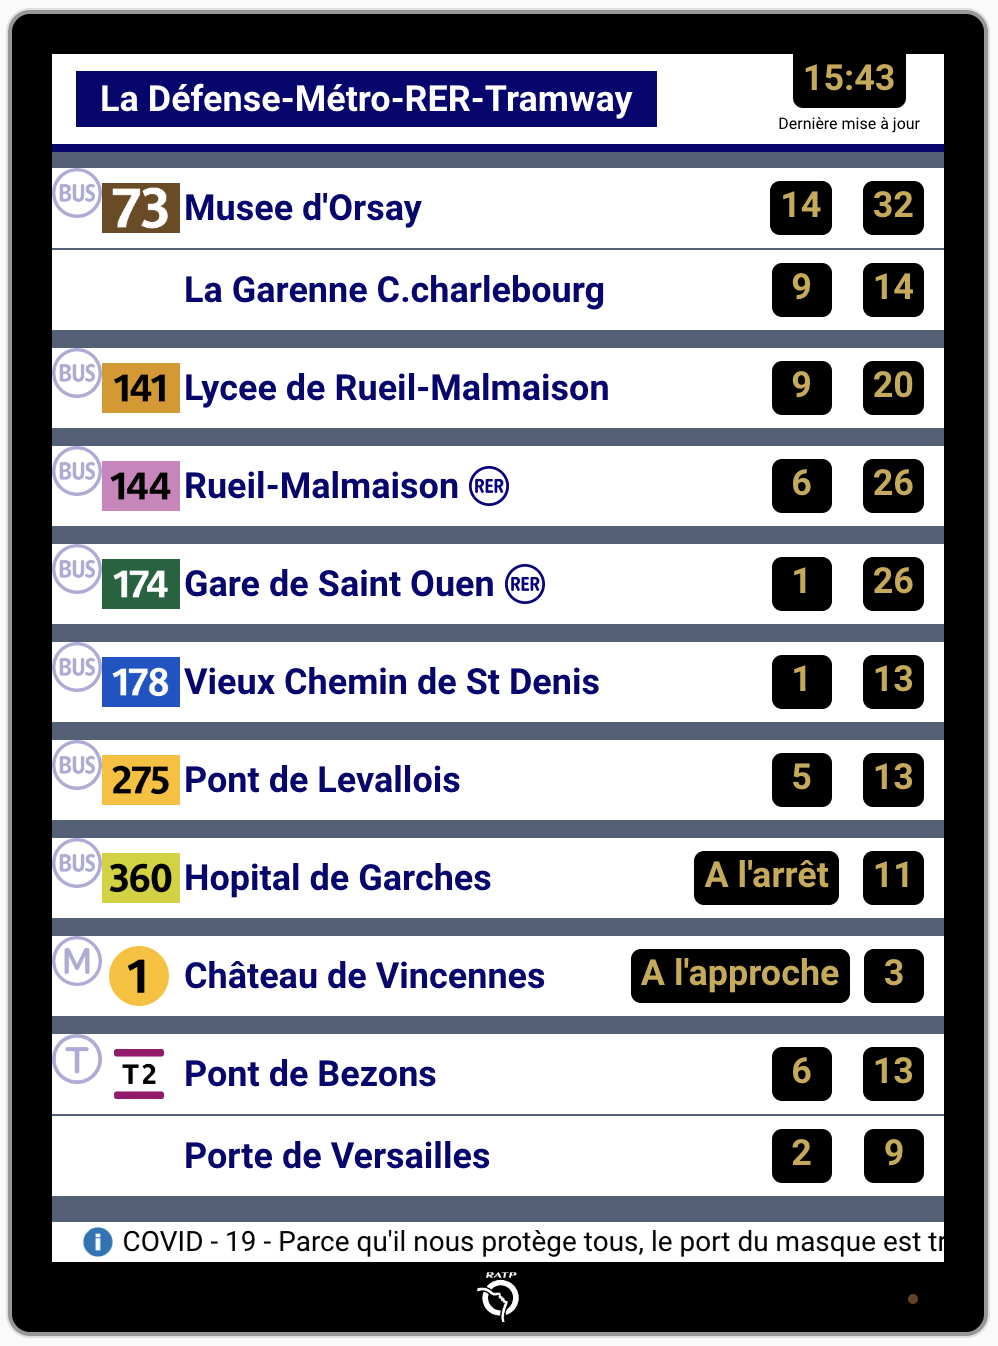
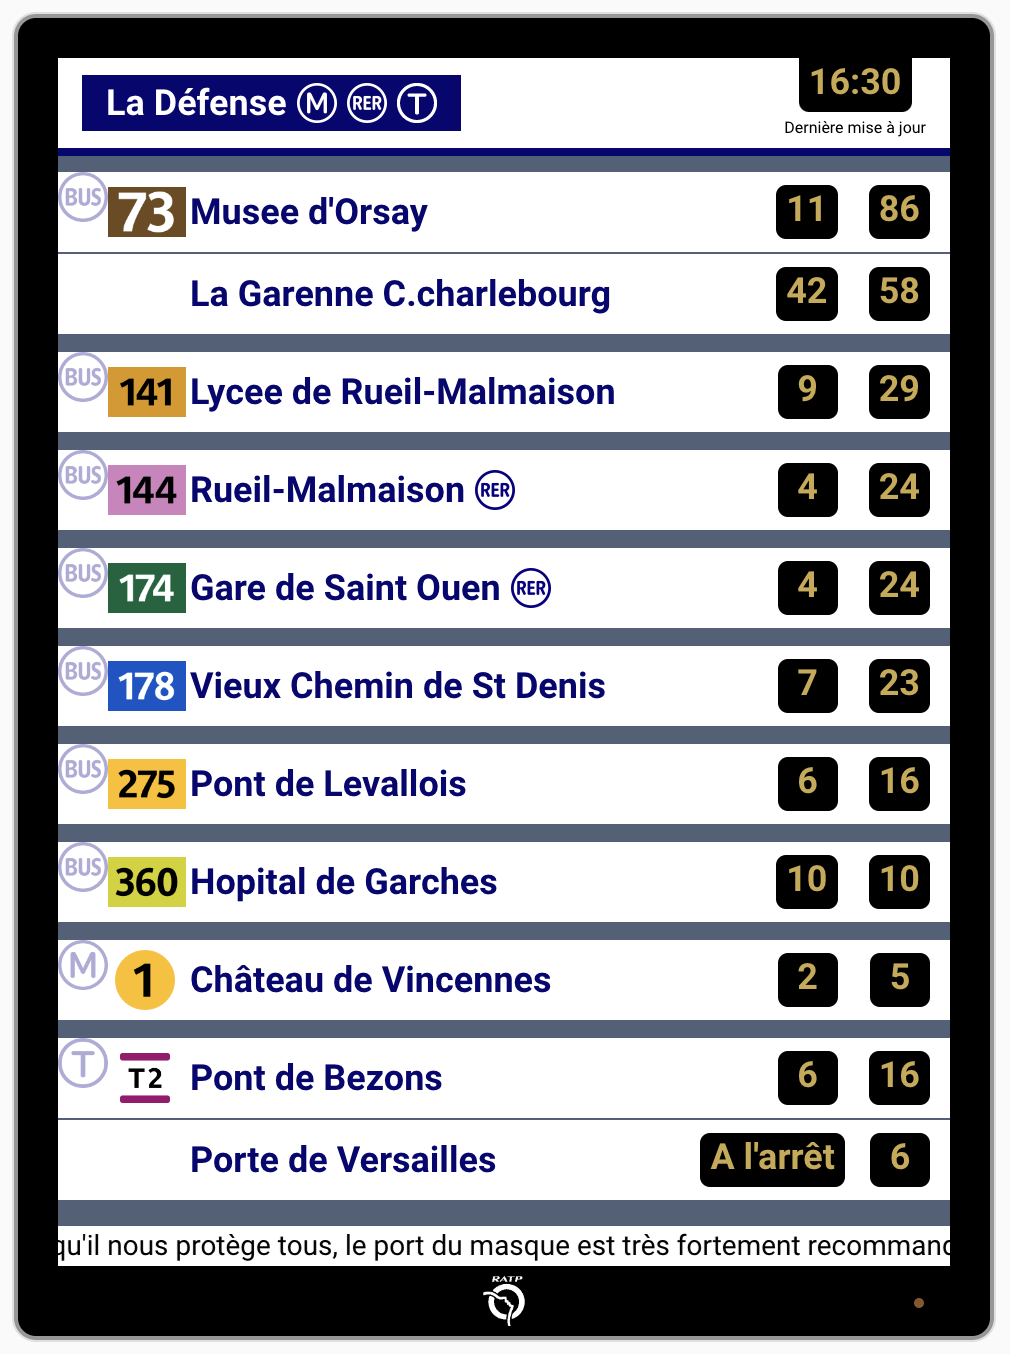
Amélioration affichage du nome de la station

Changed region(s): [[0.0, 0.0, 0.994, 0.9985], [0.497, 0.4056, 0.5591, 0.4681], [0.5281, 0.4993, 0.5902, 0.5305]]

diff --git a/dist/idf-mobilite.js b/dist/idf-mobilite.js
@@ -6,7 +6,7 @@ import {
 
 class IDFMobiliteCard extends LitElement {
     static get properties() {
-        console.log("%c Lovelave - IDF Mobilité  %c 0.0.5 ", "color: #FFFFFF; background: #5D0878; font-weight: 700;", "color: #fdd835; background: #212121; font-weight: 700;")
+        console.log("%c Lovelave - IDF Mobilité  %c 0.0.6 ", "color: #FFFFFF; background: #5D0878; font-weight: 700;", "color: #fdd835; background: #212121; font-weight: 700;")
         return {
             hass: {},
             config: {},
@@ -115,11 +115,16 @@ class IDFMobiliteCard extends LitElement {
 
                 <div class="bus-header ${this.config.show_screen === true ? "with-screen" : ""}">
                     <div class="bus-station-name">
-                        ${stationName.endsWith("RER") > 0 ?
-                                    html`<div class="bus-destination-name">${stationName.substring(0, stationName.indexOf("RER")).endsWith("-")? stationName.substring(0, stationName.indexOf("-RER")): stationName.substring(0, stationName.indexOf("RER"))}</div><div class="bus-destination-img"><img src="/local/community/lovelace-idf-mobilite/images/rer_white.png" class="bus-destination-image"/></div>`
-                            : stationName.endsWith("Métro") > 0 ?
-                                html`<div class="bus-destination-name">${stationName.substring(0, stationName.indexOf("Métro")).endsWith("-") ? stationName.substring(0, stationName.indexOf("-Métro")) : stationName.substring(0, stationName.indexOf("Métro"))}</div><div class="bus-destination-img"><img src="/local/community/lovelace-idf-mobilite/images/metro_white.png" class="bus-destination-image"/></div>`
-                                : stationName}
+                        ${stationName.indexOf("RER") > 0 || stationName.indexOf("Métro") > 0 || stationName.indexOf("Tramway") > 0 ?
+                            html`<div class="bus-destination-name">
+                                    ${stationName.substring(0, stationName.indexOf("RER") > 0 ? stationName.indexOf("RER") : stationName.length).substring(0, stationName.indexOf("Métro") > 0 ? stationName.indexOf("Métro") : stationName.length).substring(0, stationName.indexOf("Tramway") > 0 ? stationName.indexOf("Tramway") : stationName.length).replace(/-$/, '')}
+                                </div>
+                                ${stationName.indexOf("Métro") > 0 ? html`<div class="bus-destination-img"><img src="/local/community/lovelace-idf-mobilite/images/metro_white.png" class="bus-destination-image"/></div>` : ""}
+                                ${stationName.indexOf("RER") > 0 ? html`<div class="bus-destination-img"><img src="/local/community/lovelace-idf-mobilite/images/rer_white.png" class="bus-destination-image"/></div>` : ""}
+                                ${stationName.indexOf("Tramway") > 0 ? html`<div class="bus-destination-img"><img src="/local/community/lovelace-idf-mobilite/images/tram_white.png" class="bus-destination-image"/></div>` : ""}
+                            `
+                            : stationName
+                        }
                     </div>
                     <div class="bus-last-update">
                         <div class="bus-last-update-time">
